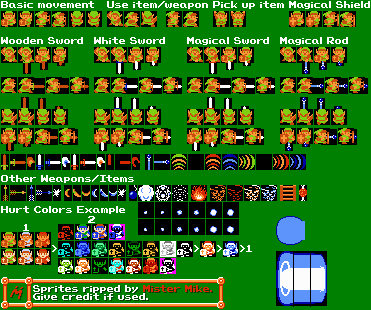
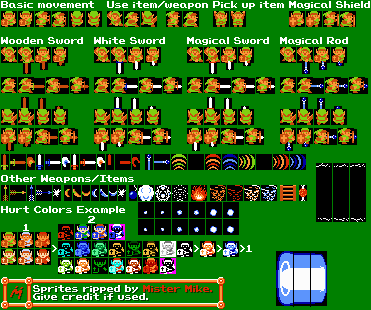
Touches up sparking effect

Changed region(s): [[0.7412, 0.5226, 1.0, 0.8129]]

diff --git a/sprint0Real/LinkStuff/LinkSprites/BeamSprite.cs b/sprint0Real/LinkStuff/LinkSprites/BeamSprite.cs
@@ -12,6 +12,11 @@ namespace sprint0Real.LinkStuff.LinkSprites
         private Rectangle StartSource = new(276, 251, 17, 55);
         private Rectangle MidSource = new(294, 251, 16, 55);
         private Rectangle EndSource = new(311, 251, 16, 55);
+
+        private Rectangle SparksSource1 = new(316, 163, 16, 59);
+        private Rectangle SparksSource2 = new(316 + 17, 163, 16, 59);
+        private Rectangle SparksSource3 = new(316 + 17 + 17, 163, 16, 59);
+
         private Rectangle LinkDestination;
         private Rectangle StartDestination;
         private Rectangle EndDestination;
@@ -54,6 +59,23 @@ namespace sprint0Real.LinkStuff.LinkSprites
             for (i = 0; i < BeamLength; i++)
             {
                 spriteBatch.Draw(_texture, new Rectangle(StartDestination.X + (i + 1) * 16 * Facing * Scale, StartDestination.Y, 16 *Scale, 55 * Scale), MidSource, Color.White, 0, Vector2.Zero, FlipEffect, 0);
+
+                int random = myGame.rand.Next(3);
+                switch (random)
+                {
+                    case 1:
+                        spriteBatch.Draw(_texture, new Rectangle(StartDestination.X + (i + 1) * 16 * Facing * Scale, StartDestination.Y - 4, 16 * Scale, 59 * Scale), SparksSource1, Color.White, 0, Vector2.Zero, FlipEffect, 0);
+                        break;
+                    case 2:
+                        spriteBatch.Draw(_texture, new Rectangle(StartDestination.X + (i + 1) * 16 * Facing * Scale, StartDestination.Y - 4, 16 * Scale, 59 * Scale), SparksSource2, Color.White, 0, Vector2.Zero, FlipEffect, 0);
+                        break;
+                    case 3:
+                        spriteBatch.Draw(_texture, new Rectangle(StartDestination.X + (i + 1) * 16 * Facing * Scale, StartDestination.Y - 4, 16 * Scale, 59 * Scale), SparksSource3, Color.White, 0, Vector2.Zero, FlipEffect, 0);
+                        break;
+                }
+                    
+                
+
             }
             //Draw last sprite of beam
             spriteBatch.Draw(_texture, new Rectangle(StartDestination.X + (i + 1)*16* Scale * Facing, StartDestination.Y, 16 * Scale, 55 * Scale), EndSource, Color.White, 0, Vector2.Zero, FlipEffect, 0);

diff --git a/sprint0Real/Game1.cs b/sprint0Real/Game1.cs
@@ -45,7 +45,7 @@ namespace sprint0Real
         public ILink Link;
         public ILinkSpriteTemp linkSprite;
 
-        private Random rand = new();
+        public Random rand = new();
 
 
         //For menus and UIs
@@ -323,6 +323,7 @@ namespace sprint0Real
                     {
                         linkSprite = new DeathSprite(linkSheet, this);
                         DyingTime = TimeSpan.Zero;
+                        MediaPlayer.Stop();
                         MediaPlayer.Play(GameOverMusic);
                         TempDying = false;
                     }
